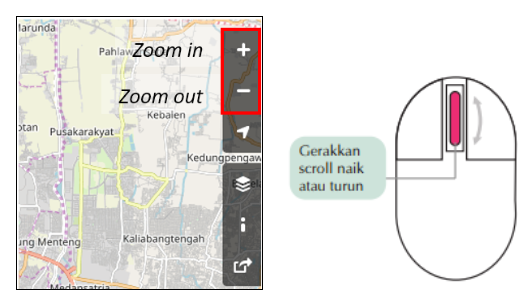
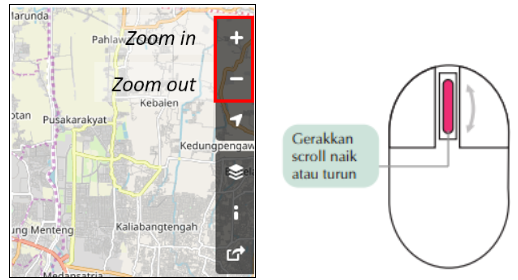
convert jpg to png

Changed region(s): [[0.0, 0.0, 0.9884, 1.0], [0.9266, 0.8571, 0.9575, 0.9143]]

diff --git a/content/id/pages/04-Data-Validation-and-Quality-Assurance/04-JOSM-Untuk-Perhitungan-Kualitas-Data/04_JOSM_Perhitungan_Kualitas_Data.md b/content/id/pages/04-Data-Validation-and-Quality-Assurance/04-JOSM-Untuk-Perhitungan-Kualitas-Data/04_JOSM_Perhitungan_Kualitas_Data.md
@@ -24,12 +24,12 @@ Sebelum Anda memulai menghitung jumlah objek, tentu saja Anda harus men-_downloa
 *   Pilih menu **_Areas around Places_** kemudian masukkan nama kecamatan “**Pleburan**” di kotak pencarian dan pastikan Anda telah mencentang tipe data **_OpenStreetMap Data_** dan pilihan **_Download as New Layer_.**
 *   Setelah berhasil, pilih hasil pencarian yang paling sesuai dengan kecamatan yang ingin Anda _download_. Pilihlah yang berada di Semarang dan memiliki tipe _boundary=administrative_. Hasil pencarian yang anda pilih akan berwarna biru.
 
-![Kotak pencarian area download di JOSM](/id/images/04-Data-Validation-and-Quality-Assurance/04-JOSM-Untuk-Perhitungan-Kualitas-Data/0401_josm_data_quality_1.jpg "Kotak pencarian area download di JOSM")
+![Kotak pencarian area download di JOSM](/id/images/04-Data-Validation-and-Quality-Assurance/04-JOSM-Untuk-Perhitungan-Kualitas-Data/0401_josm_data_quality_1.png "Kotak pencarian area download di JOSM")
 <p align="center"><i>Kotak pencarian area download di JOSM</i></p>
 
 *   Setelah semua selesai diatur, kemudian klik **_Download._**
 
-![Hasil  download data di JOSM](/id/images/04-Data-Validation-and-Quality-Assurance/04-JOSM-Untuk-Perhitungan-Kualitas-Data/0402_josm_data_quality_2.jpg "Hasil  download data di JOSM")
+![Hasil  download data di JOSM](/id/images/04-Data-Validation-and-Quality-Assurance/04-JOSM-Untuk-Perhitungan-Kualitas-Data/0402_josm_data_quality_2.png "Hasil  download data di JOSM")
 <p align="center"><i>Hasil  download data di JOSM</i></p>
 
 >Catatan :
@@ -47,7 +47,7 @@ Jika Anda telah berhasil mendownload data di area pemetaan , maka langkah beriku
 
 *   Kemudian di kotak pencarian silahkan ketik “**admin_level=7**” kemudian klik **_Start Search_**
 
-![Jendela pencarian untuk memilih kelurahan di JOSM](/id/images/04-Data-Validation-and-Quality-Assurance/04-JOSM-Untuk-Perhitungan-Kualitas-Data/0404_josm_data_quality_4.jpg "Jendela pencarian untuk memilih kelurahan di JOSM")
+![Jendela pencarian untuk memilih kelurahan di JOSM](/id/images/04-Data-Validation-and-Quality-Assurance/04-JOSM-Untuk-Perhitungan-Kualitas-Data/0404_josm_data_quality_4.png "Jendela pencarian untuk memilih kelurahan di JOSM")
 <p align="center"><i>Jendela pencarian untuk memilih kelurahan di JOSM</i></p>
 
 *   Anda akan melihat semua obyek OSM yang memiliki _tag “admin_level=7_” akan terpilih di jendela **_selection_**.  Setelah itu silakan pilih Kelurahan Pleburan yang akan Anda hitung objek yang ada di dalam wilayah tersebut dan **klik 2 kali**. Anda akan melihat garis batas administrasi Kelurahan Pleburan akan berubah menjadi warna ungu di dalam layer data JOSM, hal ini menandakan kelurahan tersebut sudah terpilih. 
@@ -57,7 +57,7 @@ Jika Anda telah berhasil mendownload data di area pemetaan , maka langkah beriku
 
 *   Jika di JOSM Anda belum terdapat menu _Selection_ maka Anda harus menginstal _plugin utilsplugin_ di JOSM. Penjelasan tentang cara menginstal _plugin_ ini dapat Anda lihat di Modul **Menambahkan Data OSM menggunakan JOSM**. Setelah itu pilih menu **Selection → All inside [testing]**. Anda akan melihat seluruh data yang berada di Kelurahan Pleburan akan terpilih dan berwarna merah. 
 
-![Hasil seleksi data di JOSM](/id/images/04-Data-Validation-and-Quality-Assurance/04-JOSM-Untuk-Perhitungan-Kualitas-Data/0406_josm_data_quality_6.jpg "Hasil seleksi data di JOSM")
+![Hasil seleksi data di JOSM](/id/images/04-Data-Validation-and-Quality-Assurance/04-JOSM-Untuk-Perhitungan-Kualitas-Data/0406_josm_data_quality_6.png "Hasil seleksi data di JOSM")
 <p align="center"><i>Hasil seleksi data di JOSM</i></p>
 
 *   Kemudian pilih kembali menu **_Selection → Intersecting Ways_** untuk memilih kembali semua data yang di dalam maupun yang bersinggungan dengan Kelurahan Pleburan, seperti jaringan jalan dan sungai. Durasi dari proses ini berlangsung tergantung dari luas wilayah dan banyaknya data yang ada di dalamnya.
@@ -92,7 +92,7 @@ Setelah berhasil menghitung total data dalam area pemetaan atau dalam contoh ini
 
 Tabel Rekapitulasi Perhitungan Kualitas Data
 
-![Tabel Rekapitulasi Perhitungan Data](/id/images/04-Data-Validation-and-Quality-Assurance/04-JOSM-Untuk-Perhitungan-Kualitas-Data/0411_josm_data_quality_11.jpg "Tabel Rekapitulasi Perhitungan Data")
+![Tabel Rekapitulasi Perhitungan Data](/id/images/04-Data-Validation-and-Quality-Assurance/04-JOSM-Untuk-Perhitungan-Kualitas-Data/0411_josm_data_quality_11.png "Tabel Rekapitulasi Perhitungan Data")
 
 Seperti yang dapat Anda lihat pada tabel di atas, jumlah objek di Kelurahan Pleburan sebelum pemetaan adalah 1.863 dimana terdapat 4 _warning_ pada data yang ada. Kemudian setelah dilakukan kegiatan pengumpulan data di lapangan dan validasi data jumlah data yang ada di kelurahan tersebut meningkat menjadi 1.963 dimana tidak terdapat _error_ maupun _warning_ sama sekali.  Anda dapat melihat contoh tabel hasil perhitungan kualitas data di Kota Semarang secara keseluruhan di [http://bit.ly/tabeldatasemarang](http://bit.ly/tabeldatasemarang) 
 
@@ -113,22 +113,22 @@ Berikut adalah langkah-langkah yang harus Anda lakukan dalam menghitung jumlah R
 *   Jendela **_filter_** akan muncul di JOSM Anda. Kemudian silakan klik **_add_** dan masukkan **_query_** untuk menyaring data sehingga yang akan ditampilkan di JOSM hanya batas-batas administrasi saja. _Query_ tersebut adalah “**is_in:village”=”Pleburan**”. 
 *   Anda akan melihat tampilan data di JOSM anda akan berubah seperti berikut:
 
-![Tampilan hasil filter data untuk batas-batas administrasi di JOSM](/id/images/04-Data-Validation-and-Quality-Assurance/04-JOSM-Untuk-Perhitungan-Kualitas-Data/0413_josm_data_quality_13.jpg "Tampilan hasil filter data untuk batas-batas administrasi di JOSM")
+![Tampilan hasil filter data untuk batas-batas administrasi di JOSM](/id/images/04-Data-Validation-and-Quality-Assurance/04-JOSM-Untuk-Perhitungan-Kualitas-Data/0413_josm_data_quality_13.png "Tampilan hasil filter data untuk batas-batas administrasi di JOSM")
 <p align="center"><i>Tampilan hasil filter data untuk batas-batas administrasi di JOSM</i></p>
 
 *   Kemudian pilih seluruh batas RW yang ada di Kelurahan Pleburan dengan cara menggunakan alat _search_. Klik menu **_Edit → Search_**. Anda kemudian akan melihat jendela pencarian. Kemudian masukkan _query_ “**admin_level=9**” dan klik **_Start Search_**.
 
-![Query untuk pencarian batas-batas RW di JOSM](/id/images/04-Data-Validation-and-Quality-Assurance/04-JOSM-Untuk-Perhitungan-Kualitas-Data/0414_josm_data_quality_14.jpg "Query untuk pencarian batas-batas RW di JOSM")
+![Query untuk pencarian batas-batas RW di JOSM](/id/images/04-Data-Validation-and-Quality-Assurance/04-JOSM-Untuk-Perhitungan-Kualitas-Data/0414_josm_data_quality_14.png "Query untuk pencarian batas-batas RW di JOSM")
 <p align="center"><i>Query untuk pencarian batas-batas RW di JOSM</i></p>
 
 *   Anda akan melihat batas RW di data yang terpilih. Hal ini ditunjukkan dengan garis-garis batas administrasi menjadi warna ungu. Kemudian di bagian jendela ***selection*** Anda akan melihat daftar RW yang ada di data Kelurahan Pleburan.
 
-![Hasil seleksi untuk batas-batas RW di Kelurahan Pleburan](/id/images/04-Data-Validation-and-Quality-Assurance/04-JOSM-Untuk-Perhitungan-Kualitas-Data/0415_josm_data_quality_15.jpg "Hasil seleksi untuk batas-batas RW di Kelurahan Pleburan")
+![Hasil seleksi untuk batas-batas RW di Kelurahan Pleburan](/id/images/04-Data-Validation-and-Quality-Assurance/04-JOSM-Untuk-Perhitungan-Kualitas-Data/0415_josm_data_quality_15.png "Hasil seleksi untuk batas-batas RW di Kelurahan Pleburan")
 <p align="center"><i>Hasil seleksi untuk batas-batas RW di Kelurahan Pleburan</i></p>
 
 *   Anda dapat membandingkan jumlah RW yang ada di Kelurahan Pleburan yang merupakan hasil _selection_ di JOSM dengan tabel rekapitulasi hasil pengumpulan data di lapangan. 
 
-![contoh_tabel](/id/images/04-Data-Validation-and-Quality-Assurance/04-JOSM-Untuk-Perhitungan-Kualitas-Data/0416_josm_data_quality_16.jpg "Contoh tabel rekapitulasi jumlah RW di kelurahan pemetaan")
+![contoh_tabel](/id/images/04-Data-Validation-and-Quality-Assurance/04-JOSM-Untuk-Perhitungan-Kualitas-Data/0416_josm_data_quality_16.png "Contoh tabel rekapitulasi jumlah RW di kelurahan pemetaan")
 <p align="center"><i>Contoh tabel rekapitulasi jumlah RW di kelurahan pemetaan</i></p>
 
 Anda dapat melihat pada tabel di atas bahwa jumlah RW yang ada di Kelurahan Pleburan sebanyak 6 RW dan pada gambar hasil seleksi batas RW di JOSM juga terlihat terdapat 6 RW yang terpilih mulai dari RW 01 hingga RW 06. Dengan begitu telah terdapat kesamaan data dan Anda dapat memvalidasi jumlah RW di Kelurahan Pleburan yang ada di _OpenStreetMap_. 
@@ -159,19 +159,19 @@ Untuk melakukan validasi _tag _batas-batas RW, Anda dapat mengikuti langkah-lang
 *   Pilih semua daftar RW pada jendela **_selection_** hasil dari fitur **_search_** di JOSM.
 
 
-![Memilih daftar RW yang ada di Kelurahan Pleburan](/id/images/04-Data-Validation-and-Quality-Assurance/04-JOSM-Untuk-Perhitungan-Kualitas-Data/0417_josm_data_quality_17.jpg "Memilih daftar RW yang ada di Kelurahan Pleburan")
+![Memilih daftar RW yang ada di Kelurahan Pleburan](/id/images/04-Data-Validation-and-Quality-Assurance/04-JOSM-Untuk-Perhitungan-Kualitas-Data/0417_josm_data_quality_17.png "Memilih daftar RW yang ada di Kelurahan Pleburan")
 <p align="center"><i>Memilih daftar RW yang ada di Kelurahan Pleburan</i></p>
 
 *   **klik kanan** pada daftar RW kemudian pilih **Edit**. Anda kemudian akan melihat kotak peringatan bahwa Anda akan membuka seluruh informasi untuk masing-masing batas RW dimana untuk Kelurahan Pleburan akan terbuka sebanyak 6 jendela informasi. Silahkan klik **Ok.**
 
-![Langkah melihat informasi batas-batas RW](/id/images/04-Data-Validation-and-Quality-Assurance/04-JOSM-Untuk-Perhitungan-Kualitas-Data/0418_josm_data_quality_18.jpg "Langkah melihat informasi batas batas RW")
+![Langkah melihat informasi batas-batas RW](/id/images/04-Data-Validation-and-Quality-Assurance/04-JOSM-Untuk-Perhitungan-Kualitas-Data/0418_josm_data_quality_18.png "Langkah melihat informasi batas batas RW")
 <p align="center"><i>Langkah melihat informasi batas-batas RW</i></p>
 
 
 
 *   Setelah jendela terbuka silahkan Anda periksa kelengkapan informasi (_tag_) untuk **masing-masing** batas RW. Selain itu, periksa hubungan relasi dengan antar batas-batas RW lain dengan melihat alur relasi di bagian **_member_**. Relasi yang baik adalah jika hubungan antara member batas RW saling terhubung dan membentuk _loop_ atau lingkaran yang terhubung. Jika Anda ingin mengetahui hubungan antar relasi dan cara melakukan input batas-batas administrasi di JOSM dengan lebih lengkap, maka Anda dapat melihat Modul **Membuat Batas Administrasi di JOSM**.
 
-![kotak relasi dan informasi](/id/images/04-Data-Validation-and-Quality-Assurance/04-JOSM-Untuk-Perhitungan-Kualitas-Data/0419_josm_data_quality_19.jpg)
+![kotak relasi dan informasi](/id/images/04-Data-Validation-and-Quality-Assurance/04-JOSM-Untuk-Perhitungan-Kualitas-Data/0419_josm_data_quality_19.png)
 <p align="center"><i>Kotak relasi dan informasi batas administrasi di JOSM</i></p>
 
 Anda dapat menambahkan _tag_ jika di RW tersebut belum sesuai dengan model data yang telah ditentukan dan memperbaiki bentuk relasi dengan mengatur urutan member dan _rules_ masing-masing _member_.
